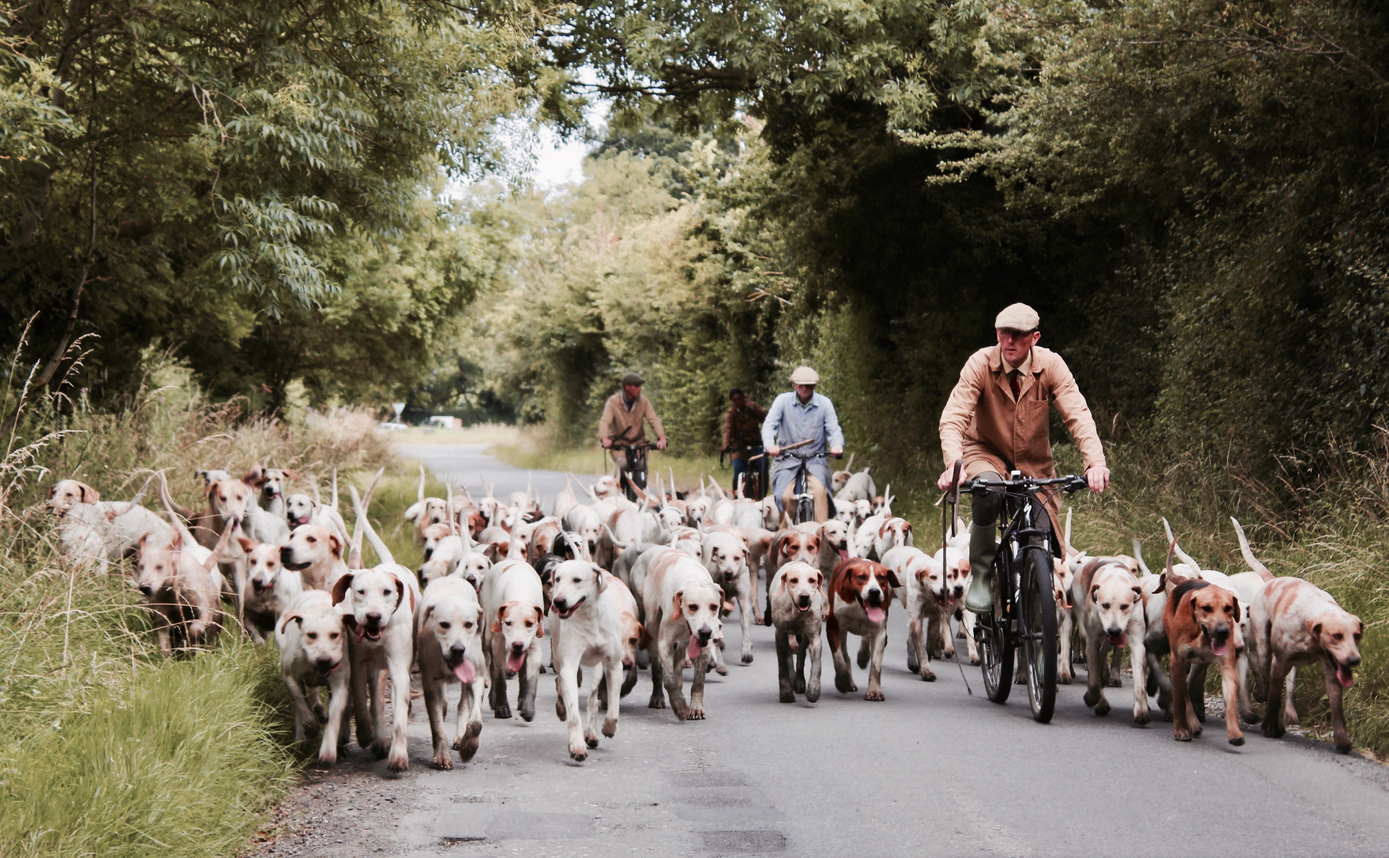
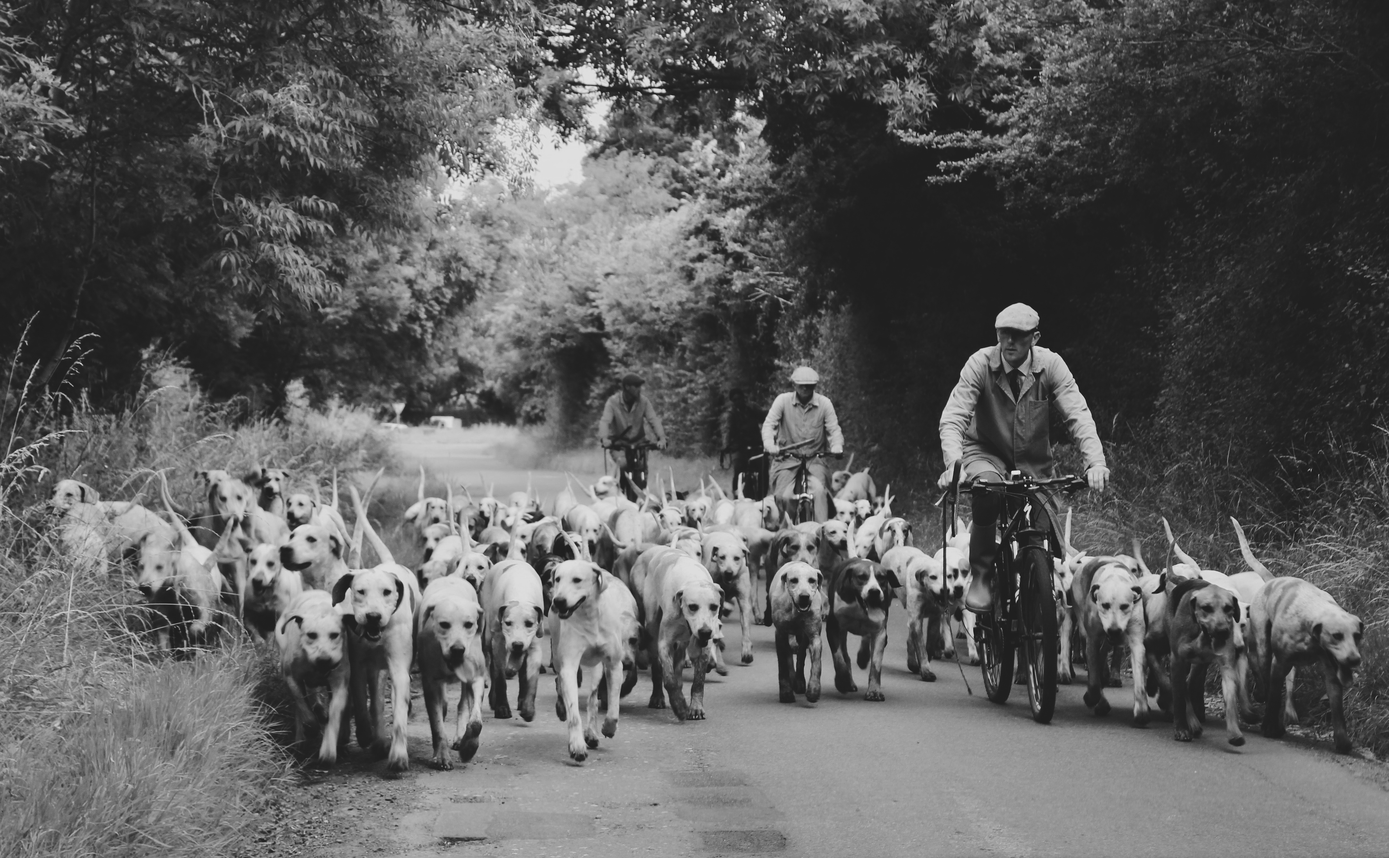
V2

diff --git a/css/styles.css b/css/styles.css
@@ -1,7 +1,7 @@
 
 body {
    
-    background-image: url(../rsc/nature.jpg);
+    background-image: url(../rsc/dogsbg.jpg);
     background-size: cover;
     background-position: center;
     background-attachment: fixed;
@@ -9,43 +9,53 @@ body {
 } 
 .container{
     margin-top: 20px;
-    border: 1px solid rgba(13, 192, 223, 0.09);
-    backdrop-filter: blur(25px);
-    background:rgba(0, 4, 255, 0.048);
-    border-radius: 10px;
+    
     padding-bottom: 10px;
 
 }
-
+.banner{
+    margin-top: -25px;
+    color: rgb(245, 245, 245);
+    font-family: 'Montserrat', sans-serif;
+    font-style: italic;
+    text-transform: uppercase;
+}
 h1{
     background-color: transparent;
-    color: black;
-    font-family: 'Comfortaa', cursive;
+    
     margin-top: 100px;
+    font-size: 80px;
+    font-weight: 500;
    
-    font-weight: 200;
     text-align: left;
     
 }
-h2{
+h3{
     background-color: transparent;
-    color: black;
-    
-    font-family: 'Comfortaa', cursive;
+   
+    margin-top: -50px;
+    font-family: 'Montserrat', sans-serif;
     font-weight: 200;
+    font-size: 60px;
     text-align: left;
+}
+h4{
+    font-size: 25px;
 }
 table{  
    
    
-
+    
+    backdrop-filter: blur(25px);
+    background:rgba(255, 255, 255, 0.048);
+    border-radius: 10px;
     column-gap: 100px;
     
     border-collapse: collapse;
     width: 100%;
     color: black;
     font-style: "bold";
-    font-size:15px;
+    font-size:16px;
     text-align: left;
 }
 th{
@@ -69,30 +79,44 @@ tr {
 
 
 .navbar{
-    font-family: 'Comfortaa', cursive;
-    font-weight: 600;
-    padding-top: 30px;
-    background-color: rgba(0, 0, 0, 0.08);
-    border-bottom: 2px solid black;
+    font-family: 'Raleway', sans-serif;
+    font-weight: 700;
+    padding-bottom: 5px;
+    padding-top: 10px;
+    font-size: 30px;
+    backdrop-filter: blur(50px);
+    background:rgba(255, 255, 255, 0.534);
+     
+    border-radius:10px;
     display: flex;
     justify-content:space-between;
     text-transform: uppercase;
 }
-.leftside {
-    margin-left: 30px;
+.leftside *{
+    margin-top: -5px;
+    margin-left: 40px;
     display: flex;
+    font-family: 'Montserrat', sans-serif;
+    font-style: italic;
     text-transform: uppercase;
-    color:black;
-    font-size: 25px;
+    color:rgb(255, 255, 255);
+    
 
 }
+.rightside{
+    margin-top: -8px;
+}
 .rightside *{
+    
     text-decoration: none;
     justify-content: space-between;
     margin-right: 38px;
+    font-weight: 500;
+    font-size: 20px;;
     color: black;
     transition: color 0.5s;
     display: inline;
+   
 }
 
 .rightside *:hover{

diff --git a/index.php b/index.php
@@ -20,8 +20,12 @@
 <head>
     <meta charset="UTF-8">
     <title>PoppletonDogShow</title>
+    <link href="https://fonts.googleapis.com/css2?family=Caveat:wght@600&display=swap" rel="stylesheet">
+    <link href="https://fonts.googleapis.com/css2?family=Parisienne&display=swap" rel="stylesheet">
+    <link href="https://fonts.googleapis.com/css2?family=Raleway:wght@500;700&display=swap" rel="stylesheet">
     <link href="https://fonts.googleapis.com/css2?family=Montserrat:wght@200;300;400&display=swap" rel="stylesheet">
     <link href="https://fonts.googleapis.com/css2?family=Comfortaa:wght@400;600&display=swap" rel="stylesheet">
+    <link href="https://fonts.googleapis.com/css2?family=Montserrat:ital,wght@0,500;0,700;1,700&display=swap" rel="stylesheet">
     <link rel="stylesheet" href = "css/styles.css">
     
 </head>
@@ -33,7 +37,7 @@
     <div class="container">
         <nav class="navbar">
             <div class="leftside">
-                <a>Poppleton Dog Show</a>
+                <a>The Poppleton Show</a>
             </div>
             <div class="rightside">
                 <a href="http://">our dogs</a>  
@@ -49,9 +53,11 @@ $header_result = mysqli_query($connection, $header_query);
 $header_array = mysqli_fetch_assoc($header_result);
 $leaderboard_result = mysqli_query($connection, $leaderboard_query);
 ?>
-<h1> <?php echo 'This year '. $header_array['Owners']?> owners entered <?php echo $header_array['Dogs'] ?> dogs in <?php echo $header_array['Events'] ?> events   </h1>
-<h2> The top 10 dogs for this season are:</h2>
-
+    <div class="banner">
+        <h1> <?php echo $header_array['Dogs'] ?> dogs,  <?php echo $header_array['Owners']?> owners </h1>
+        <h3> <?php echo $header_array['Events'] ?> events...</h3>
+        <h4> The top 10 dogs for this season are:</h4>
+    </div>
 
 
         <div id="tabCon">    
